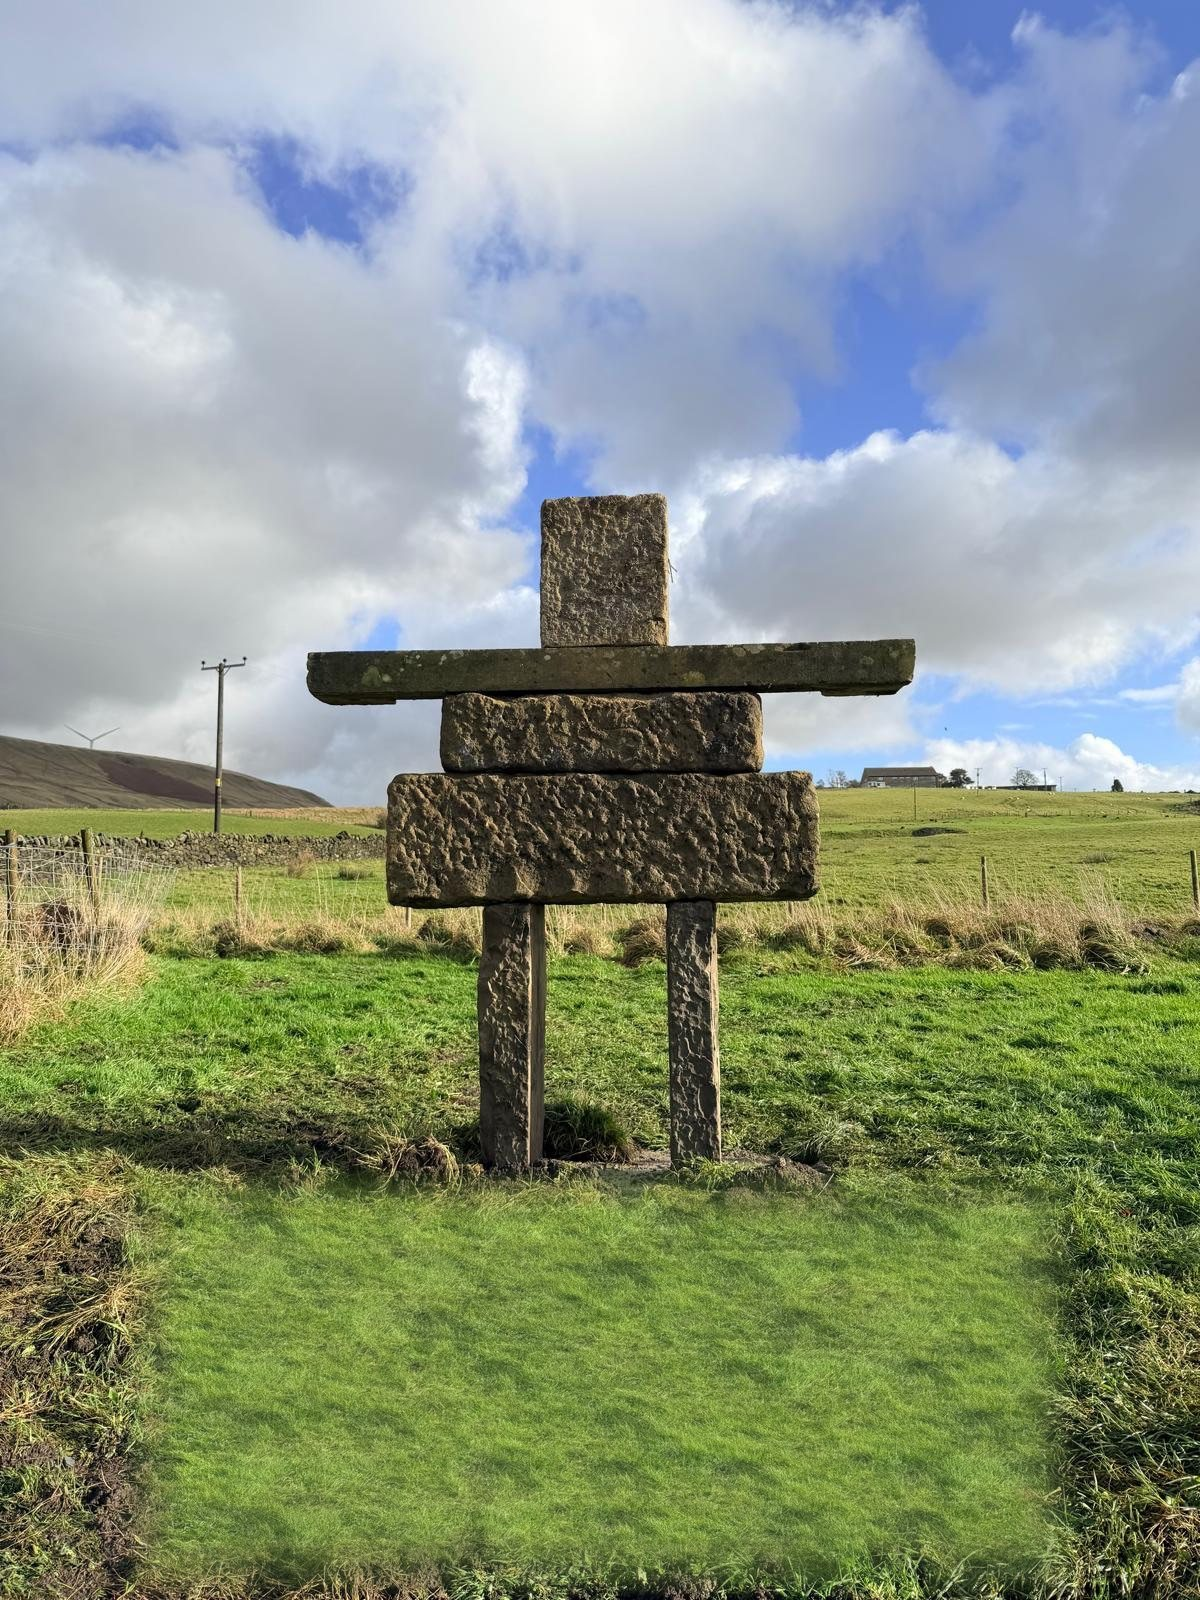
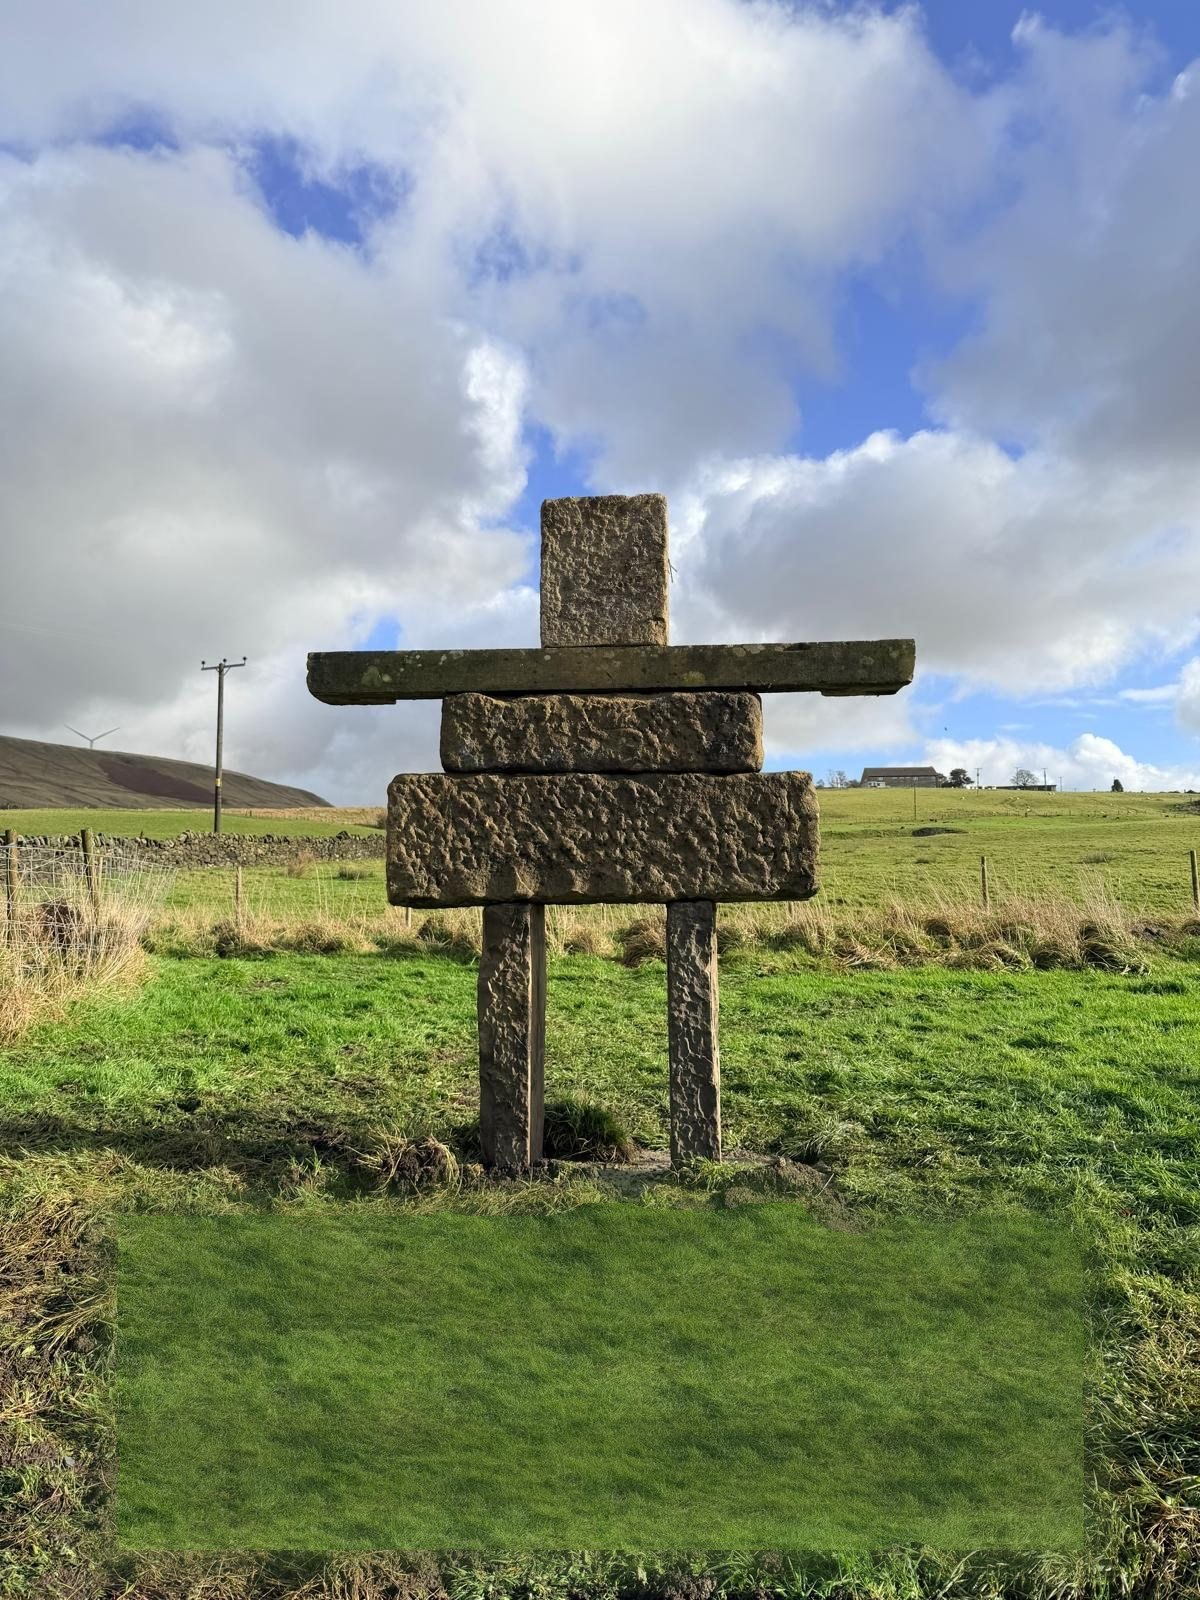
Open the homepage on the wide landscape and cover more of the front soil.
The first screen uses the real 2000 by 1125 field photograph edge to edge, and the phone uses the summer portrait, so the page no longer leads with the repaired front frame. The front soil repair is a fuller clone of the lawn beside the stone. The stone itself is unchanged.

Changed region(s): [[0.0617, 0.7188, 0.925, 1.0]]

diff --git a/legacy-static/index.html b/legacy-static/index.html
@@ -606,11 +606,28 @@
     .form-group input, .form-group textarea, .form-group select { background: #1d1d1f; color: #f5f5f7; border-color: rgba(255,255,255,0.16); }
     .submit-btn { background: #f5f5f7; color: #1d1d1f; }
     .viz-controls, .viz-stage { background: #000; border: 0; }
+    .viz-controls input[type="range"] { accent-color: #f5f5f7; }
     .upload-action, .viz-button, .size-card { background: #141414; color: #f5f5f7; border-color: rgba(255,255,255,0.16); }
     .viz-button[aria-pressed="true"], .viz-button.primary { background: #f5f5f7; color: #1d1d1f; }
     .size-choice input:checked + .size-card { background: #1d1d1f; border-color: #f5f5f7; box-shadow: none; }
     .faq summary::after { color: #f5f5f7; }
     footer .logo, .footer-heading { color: #f5f5f7; }
+    .hero { min-height: 0; }
+    .hero-copy { padding: 3.4rem 1.5rem 2rem; }
+    .hero h1 { font-size: clamp(3rem, 6.2vw, 5.5rem); }
+    .hero-stage { flex: none; width: 100%; height: min(56.25vw, calc(100dvh - 300px)); min-height: 420px; aspect-ratio: auto; }
+    .hero-media { position: absolute; inset: 0; left: 0; top: 0; transform: none; width: 100%; height: 100%; max-width: none; object-fit: cover; object-position: center bottom; }
+    .gallery .container, .photo-grid { max-width: 1600px; }
+    .photo-card img, .photo-card.wide img { width: 100%; max-width: none; }
+    @media (max-width: 960px) {
+      .hero-copy { padding: 2.2rem 1.15rem 1.15rem; }
+      .hero h1 { font-size: 2.5rem; }
+      .hero-stage { height: auto; min-height: 0; }
+      .hero-stage, .hero-stage picture, .hero-media { position: static; width: 100%; height: auto; transform: none; min-height: 0; }
+      .hero-media { height: min(68vh, 620px); object-fit: cover; object-position: center bottom; }
+      .gallery { padding-inline: 0; }
+      .gallery .section-title, .gallery .section-subtitle { padding-inline: 1.15rem; }
+    }
   </style>
 </head>
 <body>
@@ -649,7 +666,7 @@
     <figure class="hero-stage">
       <picture>
         <source media="(min-width: 961px)" srcset="assets/gallery/landmark-wide.jpg" width="2000" height="1125">
-        <img class="hero-media" src="assets/gallery/landmark-front.jpg" alt="A handbuilt stone Inukshuk standing on open land" width="1200" height="1600" fetchpriority="high" loading="eager">
+        <img class="hero-media" src="assets/gallery/summer-landmark.jpg" alt="A handbuilt stone Inukshuk standing in a green summer field" width="1125" height="2000" fetchpriority="high" loading="eager">
       </picture>
     </figure>
   </section>
@@ -691,10 +708,10 @@
             <figcaption>Rooted in its landscape</figcaption>
           </button>
         </figure>
-        <figure class="photo-card tall">
-          <button type="button" class="gallery-open" data-gallery-index="1" aria-label="Open front view photograph">
-            <img src="assets/gallery/landmark-front.jpg" alt="Front view of a handbuilt stone Inukshuk" width="1200" height="1600" loading="lazy" decoding="async">
-            <figcaption>Built stone by stone</figcaption>
+        <figure class="photo-card wide">
+          <button type="button" class="gallery-open" data-gallery-index="1" aria-label="Open hillside photograph">
+            <img src="assets/gallery/hillside-landmark.jpg" alt="An Inukshuk on open grassland with the hills behind it" width="2000" height="1125" loading="lazy" decoding="async">
+            <figcaption>The long view</figcaption>
           </button>
         </figure>
         <figure class="photo-card">

diff --git a/assets/base.css b/assets/base.css
@@ -155,8 +155,7 @@ summary:focus-visible {
 .menu-toggle[aria-expanded="true"] .menu-toggle-lines::after { transform: translateY(-2px) rotate(-45deg); }
 
 .hero {
-  min-height: 100vh;
-  min-height: 100dvh;
+  min-height: 0;
   display: flex;
   flex-direction: column;
   align-items: stretch;
@@ -166,32 +165,31 @@ summary:focus-visible {
   text-align: center;
 }
 
-.hero-stage { position: relative; margin: 0; flex: 1 1 auto; width: 100%; min-height: 420px; }
+.hero-stage { position: relative; margin: 0; flex: none; width: 100%; height: min(56.25vw, calc(100dvh - 300px)); min-height: 420px; }
 .hero-stage picture { display: block; height: 100%; }
 
 .hero-media {
   position: absolute;
-  top: 0;
-  left: 50%;
-  transform: translateX(-50%);
-  width: auto;
+  inset: 0;
+  transform: none;
+  width: 100%;
   height: 100%;
-  max-width: 100%;
-  object-fit: contain;
+  max-width: none;
+  object-fit: cover;
   object-position: center bottom;
   display: block;
   background: #000;
 }
 
 .hero-copy {
-  max-width: 980px;
+  max-width: 920px;
   margin: 0 auto;
-  padding: 1.7rem 1.5rem 0.85rem;
+  padding: 3.4rem 1.5rem 2rem;
 }
 
 .hero h1 {
   font-family: var(--font-heading);
-  font-size: clamp(2.7rem, 5.2vw, 4.5rem);
+  font-size: clamp(3rem, 6.2vw, 5.5rem);
   font-weight: 600;
   line-height: 1.02;
   margin: 0 auto 0.45rem;
@@ -355,15 +353,17 @@ section { padding: 5rem 2rem; }
 .photo-card.wide,
 .photo-card.tall { width: 100%; }
 
-.photo-card img {
-  width: min(100%, 980px);
+.gallery .container { max-width: 1600px; }
+
+.photo-card img,
+.photo-card.wide img {
+  width: 100%;
+  max-width: none;
   height: auto;
   object-fit: contain;
   display: block;
   margin-inline: auto;
 }
-
-.photo-card.wide img { width: 100%; max-width: none; }
 
 .photo-caption {
   position: static;
@@ -464,7 +464,7 @@ section { padding: 5rem 2rem; }
 .viz-control input[type="range"] {
   width: 100%;
   min-height: 48px;
-  accent-color: #1d1d1f;
+  accent-color: #f5f5f7;
 }
 
 .viz-canvas.dragging { cursor: grabbing; }
@@ -1030,8 +1030,12 @@ section { padding: 5rem 2rem; }
   .trust-strip { padding: 0.15rem 1.15rem 0.85rem; }
   .trust-list { grid-template-columns: 1fr 1fr; gap: 0.1rem 0.5rem; }
   .trust-list li { padding: 0.1rem 0.2rem; line-height: 1.25; }
+  .hero-copy { padding: 2.2rem 1.15rem 1.15rem; }
+  .hero-stage { height: auto; min-height: 0; }
   .hero-stage, .hero-stage picture, .hero-media { position: static; inset: auto; width: 100%; height: auto; transform: none; }
-  .hero-media { aspect-ratio: 3 / 4; object-fit: cover; object-position: center center; }
+  .hero-media { height: min(68vh, 620px); aspect-ratio: auto; object-fit: cover; object-position: center bottom; }
+  .gallery { padding-inline: 0; }
+  .gallery .section-title, .gallery .section-subtitle { padding-inline: 1.15rem; }
   .footer-grid { grid-template-columns: 2fr 1fr 1fr; }
   .footer-grid > div:last-child { grid-column: 1 / -1; }
   .catalog-grid, .product-layout { grid-template-columns: 1fr 1fr; }
